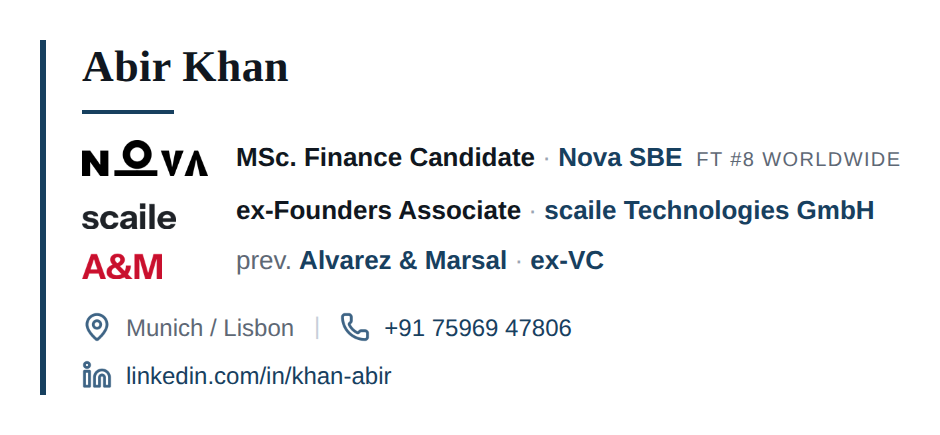
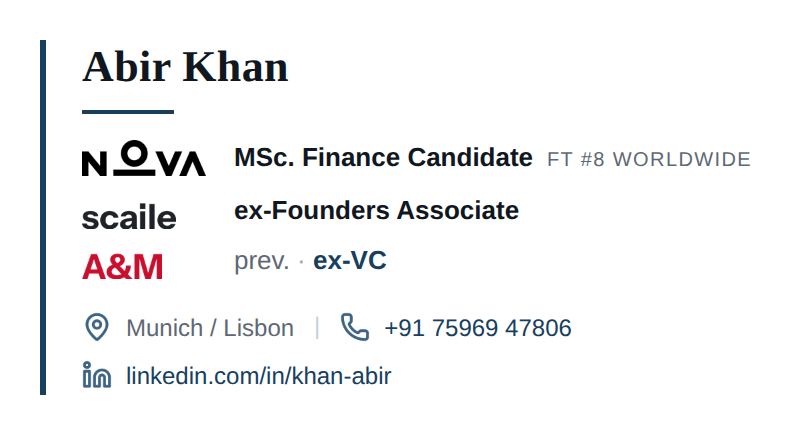
Use the official Nova SBE wordmark and let marks carry the org names
Replaces the redrawn Nova mark with the official artwork: the wordmark
is cropped out of the supplied logo file (src/logos/nova-sbe-source.png)
by ink bounding box and set to the 18px line height. The lockup's
descriptor line would be under 2px tall at this size, so the wordmark
stands alone.

With images on, the text lines no longer repeat the organisation names
the logos already carry -- each line is just the role, with the name in
the mark and its alt text. The no-images variant keeps the names in
text, so nothing is lost when there are no logos to lean on.

Claude-Session: https://claude.ai/code/session_01Xu6QQzGYix3SZksfdyNPnV

diff --git a/signature/dist/preview.html b/signature/dist/preview.html
@@ -195,11 +195,11 @@ footer{margin-top:72px; padding-top:22px; border-top:1px solid var(--rule);
       <div class="canvas">
         <div class="canvas-bar">
           <span>As the recipient sees it</span>
-          <span class="dims" id="dims">430 &times; 177 px</span>
+          <span class="dims" id="dims">355 &times; 177 px</span>
         </div>
         <div class="stage">
           <div class="panel" id="panel-full" role="tabpanel" aria-labelledby="tab-full">
[2 lines of base64/hex data omitted]
           </div>
           <div class="panel" id="panel-min" role="tabpanel" aria-labelledby="tab-min" hidden>
             <div class="sig"><table role="presentation" cellpadding="0" cellspacing="0" border="0" style="border-collapse:collapse;max-width:520px;"><tr><td width="3" style="width:3px;background-color:#17405F;font-size:0;line-height:0;">&nbsp;</td><td style="padding-left:18px;"><table role="presentation" cellpadding="0" cellspacing="0" border="0" style="border-collapse:collapse;"><tr><td style="font-family:Georgia,'Times New Roman',Times,serif;font-size:22px;line-height:27px;font-weight:700;color:#101720;letter-spacing:0.2px;padding-bottom:8px;">Abir Khan</td></tr><tr><td style="font-size:0;line-height:0;padding-bottom:12px;"><table role="presentation" cellpadding="0" cellspacing="0" border="0" style="border-collapse:collapse;"><tr><td width="46" height="2" bgcolor="#17405F" style="width:46px;height:2px;background-color:#17405F;font-size:0;line-height:0;">&nbsp;</td></tr></table></td></tr><tr><td style="padding-bottom:6px;"><div style="font-family:'Helvetica Neue',Helvetica,Arial,sans-serif;font-size:13px;line-height:19px;color:#2F3845;"><span style="font-weight:600;color:#101720;">MSc. Finance Candidate</span><span style="color:#9AA4B2;"> &middot; </span><span style="font-weight:600;color:#17405F;">Nova SBE</span><span style="font-size:10px;letter-spacing:0.7px;color:#5E6875;">&nbsp;&nbsp;FT #8 WORLDWIDE</span></div></td></tr><tr><td style="padding-bottom:6px;"><div style="font-family:'Helvetica Neue',Helvetica,Arial,sans-serif;font-size:13px;line-height:19px;color:#2F3845;"><span style="font-weight:600;color:#101720;">ex-Founders Associate</span><span style="color:#9AA4B2;"> &middot; </span><span style="font-weight:600;color:#17405F;">scaile Technologies GmbH</span></div></td></tr><tr><td style="padding-bottom:6px;"><div style="font-family:'Helvetica Neue',Helvetica,Arial,sans-serif;font-size:13px;line-height:19px;color:#2F3845;"><span style="color:#5E6875;">prev.</span> <span style="font-weight:600;color:#17405F;">Alvarez &amp; Marsal</span><span style="color:#9AA4B2;"> &middot; </span><span style="font-weight:600;color:#17405F;">ex-VC</span></div></td></tr><tr><td style="font-size:0;line-height:0;height:8px;">&nbsp;</td></tr><tr><td style="padding-bottom:4px;"><table role="presentation" cellpadding="0" cellspacing="0" border="0" style="border-collapse:collapse;"><tr><td valign="middle"><span style="font-family:'Helvetica Neue',Helvetica,Arial,sans-serif;font-size:12px;line-height:18px;color:#5E6875;">Munich / Lisbon</span></td><td style="padding:0 10px;font-family:'Helvetica Neue',Helvetica,Arial,sans-serif;font-size:12px;line-height:18px;color:#C7CFDA;">|</td><td valign="middle"><a href="tel:+917596947806" style="font-family:'Helvetica Neue',Helvetica,Arial,sans-serif;font-size:12px;line-height:18px;color:#17405F;text-decoration:none;">+91 75969 47806</a></td></tr></table></td></tr><tr><td><table role="presentation" cellpadding="0" cellspacing="0" border="0" style="border-collapse:collapse;"><tr><td valign="middle"><a href="https://www.linkedin.com/in/khan-abir" style="font-family:'Helvetica Neue',Helvetica,Arial,sans-serif;font-size:12px;line-height:18px;color:#17405F;text-decoration:none;">linkedin.com/in/khan-abir</a></td></tr></table></td></tr></table></td></tr></table></div>
@@ -269,7 +269,7 @@ https://www.linkedin.com/in/khan-abir</pre>
       <dl class="notes">
         <div class="note-row">
           <dt>Logo marks</dt>
-          <dd>The <strong>Nova SBE</strong> mark is the official wordmark redrawn from the logo &mdash; the ringed O, its bar, and the angular N/V/A. <strong>scaile</strong> and <strong>A&amp;M</strong> are placeholders: their names set in Instrument Sans at the same cap height, because this environment&rsquo;s network policy blocked both company sites. Drop real files in with <code>python3 embed_logo.py scaile scaile.svg</code>, then re-run <code>build_signature.py</code> &mdash; marks are scaled to the line height and keep their own aspect ratio, and the gutter widens to fit the widest one. Check each organisation&rsquo;s brand policy before using its logo in personal mail.</dd>
+          <dd>The <strong>Nova SBE</strong> mark is the official wordmark, cropped from the supplied logo file (the lockup&rsquo;s descriptor line would be under 2px tall at this size, so the wordmark stands alone &mdash; the standard small-size treatment). <strong>scaile</strong> and <strong>A&amp;M</strong> are still placeholders: their names set in Instrument Sans, because this environment&rsquo;s network policy blocked both company sites. Swap in real files with <code>python3 embed_logo.py scaile scaile.svg</code> and re-run <code>build_signature.py</code> &mdash; marks scale to the line height keeping their own aspect ratio, and the gutter widens to fit the widest one. With images on, the marks carry the organisation names and the text lines carry only the roles; the no-images variant keeps the names in text.</dd>
         </div>
         <div class="note-row">
           <dt>Image blocking</dt>
@@ -291,7 +291,7 @@ https://www.linkedin.com/in/khan-abir</pre>
       <div class="tablewrap">
         <table class="files">
           <thead><tr><th>Path</th><th>What it is</th><th class="size">Size</th></tr></thead>
-          <tbody><tr><td>dist/signature.html</td><td>Full signature &mdash; logo marks and contact icons</td><td class="size">26.0 KB</td></tr><tr><td>dist/signature-minimal.html</td><td>Same content, no images at all</td><td class="size">3.4 KB</td></tr><tr><td>dist/signature.txt</td><td>Plain-text fallback</td><td class="size">246 B</td></tr><tr><td>dist/preview.html</td><td>This page</td><td class="size">48.3 KB</td></tr><tr><td>build_signature.py</td><td>Builds the three variants and this page</td><td class="size">10.9 KB</td></tr><tr><td>build_assets.py</td><td>Rasterises the icons and monogram marks</td><td class="size">4.7 KB</td></tr><tr><td>embed_logo.py</td><td>Swaps a real logo file into a mark</td><td class="size">2.8 KB</td></tr><tr><td>signature-preview.png</td><td>Rendered preview used by the README</td><td class="size">62.1 KB</td></tr></tbody>
+          <tbody><tr><td>dist/signature.html</td><td>Full signature &mdash; logo marks and contact icons</td><td class="size">25.6 KB</td></tr><tr><td>dist/signature-minimal.html</td><td>Same content, no images at all</td><td class="size">3.4 KB</td></tr><tr><td>dist/signature.txt</td><td>Plain-text fallback</td><td class="size">246 B</td></tr><tr><td>dist/preview.html</td><td>This page</td><td class="size">47.9 KB</td></tr><tr><td>build_signature.py</td><td>Builds the three variants and this page</td><td class="size">11.3 KB</td></tr><tr><td>build_assets.py</td><td>Rasterises the icons and monogram marks</td><td class="size">4.7 KB</td></tr><tr><td>embed_logo.py</td><td>Swaps a real logo file into a mark</td><td class="size">2.8 KB</td></tr><tr><td>signature-preview.png</td><td>Rendered preview used by the README</td><td class="size">50.0 KB</td></tr></tbody>
         </table>
       </div>
     </section>
@@ -308,7 +308,7 @@ https://www.linkedin.com/in/khan-abir</pre>
   var dims = document.getElementById("dims");
   var btn  = document.getElementById("copy");
   var active = "full";
-  var DIMS = {"full": "430 &times; 177 px", "min": "353 &times; 177 px", "txt": "8 lines &middot; plain"};
+  var DIMS = {"full": "355 &times; 177 px", "min": "353 &times; 177 px", "txt": "8 lines &middot; plain"};
   var HINTS = {
     full:"Copies with formatting intact.",
     min:"No images at all — nothing for a client to block.",

diff --git a/signature/dist/signature.html b/signature/dist/signature.html
@@ -3,5 +3,5 @@
 <meta name="viewport" content="width=device-width,initial-scale=1" />
 <title>Abir Khan — email signature</title></head>
 <body style="margin:0;padding:32px;background:#ffffff;">
[2 lines of base64/hex data omitted]
 </body></html>

diff --git a/signature/src/page.html b/signature/src/page.html
@@ -262,7 +262,7 @@ footer{margin-top:72px; padding-top:22px; border-top:1px solid var(--rule);
       <dl class="notes">
         <div class="note-row">
           <dt>Logo marks</dt>
-          <dd>The <strong>Nova SBE</strong> mark is the official wordmark redrawn from the logo &mdash; the ringed O, its bar, and the angular N/V/A. <strong>scaile</strong> and <strong>A&amp;M</strong> are placeholders: their names set in Instrument Sans at the same cap height, because this environment&rsquo;s network policy blocked both company sites. Drop real files in with <code>python3 embed_logo.py scaile scaile.svg</code>, then re-run <code>build_signature.py</code> &mdash; marks are scaled to the line height and keep their own aspect ratio, and the gutter widens to fit the widest one. Check each organisation&rsquo;s brand policy before using its logo in personal mail.</dd>
+          <dd>The <strong>Nova SBE</strong> mark is the official wordmark, cropped from the supplied logo file (the lockup&rsquo;s descriptor line would be under 2px tall at this size, so the wordmark stands alone &mdash; the standard small-size treatment). <strong>scaile</strong> and <strong>A&amp;M</strong> are still placeholders: their names set in Instrument Sans, because this environment&rsquo;s network policy blocked both company sites. Swap in real files with <code>python3 embed_logo.py scaile scaile.svg</code> and re-run <code>build_signature.py</code> &mdash; marks scale to the line height keeping their own aspect ratio, and the gutter widens to fit the widest one. With images on, the marks carry the organisation names and the text lines carry only the roles; the no-images variant keeps the names in text.</dd>
         </div>
         <div class="note-row">
           <dt>Image blocking</dt>

diff --git a/signature/build_assets.py b/signature/build_assets.py
@@ -37,35 +37,34 @@ WORDMARKS = [
     ("am",     "A&M",    "#C8102E"),
 ]
 
-# The Nova SBE wordmark, reconstructed from the official logo: an 720x205 box
-# with the ringed O riding above the N/V/A line and a bar beneath it.
-NOVA_W, NOVA_H = 720, 205
+# The official Nova SBE logo, supplied as src/logos/nova-sbe-source.png. The
+# lockup's descriptor ("NOVA SCHOOL OF BUSINESS & ECONOMICS") is two 23px lines
+# in a 630px image -- it would be under 2px tall in the signature -- so only the
+# wordmark is used, which is how the mark is meant to be set at small sizes.
+NOVA_SRC = os.path.join(ROOT, "src", "logos", "nova-sbe-source.png")
+
+
+def ink_bbox(img):
+    """Bounding box of the visible ink, whatever the source's background is."""
+    flat = Image.alpha_composite(Image.new("RGBA", img.size, (255,) * 4), img).convert("L")
+    w, h = flat.size
+    px = flat.load()
+    xs = [x for x in range(w) if any(px[x, y] < 128 for y in range(h))]
+    ys = [y for y in range(h) if any(px[x, y] < 128 for x in range(w))]
+    return xs[0], ys[0], xs[-1] + 1, ys[-1] + 1
 
 
 def render_nova():
-    """Draw the NOVA wordmark and save it at the signature's 18px line height."""
-    ss = 3
-    im = Image.new("RGBA", (NOVA_W * ss, NOVA_H * ss), (0, 0, 0, 0))
-    d = ImageDraw.Draw(im)
-    poly = lambda pts: d.polygon([(x * ss, y * ss) for x, y in pts], fill="#000000")
-    rect = lambda a, b, c, e: d.rectangle([a * ss, b * ss, c * ss, e * ss], fill="#000000")
-
-    # N -- two stems joined by a diagonal band
-    rect(0, 60, 46, 205)
-    rect(104, 60, 150, 205)
-    poly([(0, 60), (46, 60), (150, 205), (104, 205)])
-    # O -- a ring sitting above the other letters
-    d.ellipse([233 * ss, 0, 397 * ss, 164 * ss], fill="#000000")
-    d.ellipse([275 * ss, 42 * ss, 355 * ss, 122 * ss], fill=(0, 0, 0, 0))
-    rect(185, 172, 430, 205)  # the bar beneath the O
-    # V
-    poly([(450, 60), (496, 60), (515, 155), (534, 60), (580, 60), (525, 205), (505, 205)])
-    # A -- no crossbar
-    poly([(585, 205), (631, 205), (652, 110), (674, 205), (720, 205), (663, 60), (642, 60)])
+    """Crop the wordmark out of the official logo and set it to the line height."""
+    src = Image.open(NOVA_SRC).convert("RGBA")
+    # Rows 152-361 hold the wordmark; everything below is the descriptor.
+    band = src.crop((0, 0, src.width, 380))
+    x0, y0, x1, y1 = ink_bbox(band)
+    mark = src.crop((x0, y0, x1, y1))
 
     h = TILE_CSS_PX * SCALE
-    w = round(h * NOVA_W / NOVA_H)
-    return save(im.resize((w, h), Image.LANCZOS), "novasbe.png")
+    w = max(1, round(h * mark.width / mark.height))
+    return save(mark.resize((w, h), Image.LANCZOS), "novasbe.png")
 
 
 def save(img, name):
@@ -93,7 +92,7 @@ def render_icon(name, out_name):
 def render_wordmark(slug, word, colour):
     """Set a word at the NOVA letters' cap height, baseline-aligned."""
     box_h = TILE_CSS_PX * SCALE                  # 54px, same box as NOVA
-    cap_h = round(box_h * 145 / NOVA_H)          # NOVA's N/V/A occupy 145 of 205
+    cap_h = round(box_h * 0.71)  # matches the N/V/A cap height in the Nova mark
     ss = 4
     path = os.path.join(FONTS, "InstrumentSans-Bold.ttf")
 

diff --git a/signature/build_signature.py b/signature/build_signature.py
@@ -101,19 +101,32 @@ def spacer(px):
 
 # ------------------------------------------------------------------ rows ----
 def role_row(slug, alt, lead, orgs, note, lead_is_label, images=True):
-    """One credential line: mark, role, org(s), optional small-caps footnote."""
+    """One credential line: mark, role, org(s), optional small-caps footnote.
+
+    With images, the mark names the organisation, so orgs[0] is dropped from
+    the text (the <img> alt still carries it). Without images there is no mark,
+    so the full text keeps every name.
+    """
     dot = f'<span style="color:{FAINT};"> &middot; </span>'
+    shown = orgs[1:] if images else orgs
     orgs_html = dot.join(
-        f'<span style="font-weight:600;color:{ACCENT};">{o}</span>' for o in orgs
+        f'<span style="font-weight:600;color:{ACCENT};">{o}</span>' for o in shown
     )
     if lead_is_label:
-        # "prev. Alvarez & Marsal · ex-VC" -- no separator after the label.
-        text = f'<span style="color:{MUTED};">{lead}</span> {orgs_html}'
+        # "prev." qualifies the mark (or, without images, the first org name).
+        lead_html = f'<span style="color:{MUTED};">{lead}</span>'
+        if not orgs_html:
+            text = lead_html
+        elif images:
+            text = lead_html + dot + orgs_html
+        else:
+            text = f"{lead_html} {orgs_html}"
     else:
-        text = f'<span style="font-weight:600;color:{INK};">{lead}</span>{dot}{orgs_html}'
-
+        text = f'<span style="font-weight:600;color:{INK};">{lead}</span>'
+        if orgs_html:
+            text += dot + orgs_html
     if note:
-        # Trails the org on the same line, sized down so it reads as a footnote.
+        # Trails the line, sized down so it reads as a footnote.
         text += (
             f'<span style="font-size:10px;letter-spacing:0.7px;color:{MUTED};">'
             f'&nbsp;&nbsp;{note}</span>'
@@ -121,7 +134,6 @@ def role_row(slug, alt, lead, orgs, note, lead_is_label, images=True):
     body = (
         f'<div style="font-family:{SANS};font-size:13px;line-height:19px;color:{ROLE};">{text}</div>'
     )
-
     if not images:
         # No marks to align to, so the roles sit flush with the contact lines.
         return f'<tr><td style="padding-bottom:6px;">{body}</td></tr>'
@@ -242,7 +254,7 @@ PAGE = """<!DOCTYPE html>
 # ------------------------------------------------------------ preview page --
 # Measured from a real browser render of dist/*.html; update if the copy changes.
 RENDERED = {
-    "full": "430 &times; 177 px",
+    "full": "355 &times; 177 px",
     "min": "353 &times; 177 px",
     "txt": "8 lines &middot; plain",
 }

diff --git a/signature/embed_logo.py b/signature/embed_logo.py
@@ -2,8 +2,8 @@
 """
 Replace a stylised monogram mark with a real logo file.
 
-scaile and A&M ship as their names set in type; Nova SBE is a reconstruction of
-the real wordmark. Drop in official artwork with, for example:
+Nova SBE ships as the official wordmark; scaile and A&M are their names set in
+type. Drop in official artwork with, for example:
 
     python3 embed_logo.py novasbe ~/Downloads/nova-sbe.png
     python3 embed_logo.py am ~/Downloads/am-logo.svg --bg "#C8102E" --pad 3

diff --git a/signature/README.md b/signature/README.md
@@ -13,7 +13,7 @@ per-client install steps.
 
 | File | Use it when |
 | --- | --- |
-| `dist/signature.html` | Default. Logo marks and contact icons, 26.0 KB. |
+| `dist/signature.html` | Default. Logo marks and contact icons, 25.6 KB. |
 | `dist/signature-minimal.html` | Recipients block images, or you want a 3.4 KB signature. Same content and typography, zero images. |
 | `dist/signature.txt` | Plain-text mail, ATS forms, anywhere HTML is rejected. |
 
@@ -23,15 +23,18 @@ copy button and the exact steps for Gmail, Outlook and Apple Mail.
 
 ## Swapping in real logos
 
-The **Nova SBE** mark is the official wordmark redrawn from the logo — the
-ringed O with its bar, and the angular N/V/A. **scaile** and **A&M** are
-placeholders: their names set in Instrument Sans at the same cap height and
-baseline, because the network policy in the environment this was built in
-blocked both company sites.
+The **Nova SBE** mark is the official wordmark, cropped from the supplied logo
+file (`src/logos/nova-sbe-source.png`). The lockup's descriptor line would be
+under 2px tall at signature size, so the wordmark stands alone — the standard
+small-size treatment. **scaile** and **A&M** are placeholders: their names set
+in Instrument Sans at the same cap height, because the network policy in the
+environment this was built in blocked both company sites.
 
-Marks are scaled to the signature's 18px line height and keep their own aspect
-ratio, so wide wordmarks work as well as square icons. The left gutter sizes
-itself to the widest mark.
+With images on, the marks carry the organisation names and the text lines carry
+only the roles. The no-images variant keeps the names in text, so nothing is
+lost when there are no logos to lean on. Marks are scaled to the signature's
+18px line height and keep their own aspect ratio; the left gutter sizes itself
+to the widest mark.
 
 To drop in real files:
 
